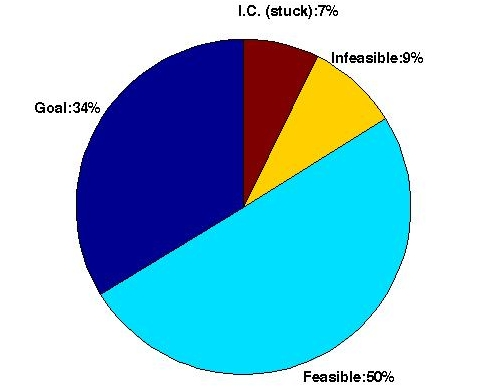
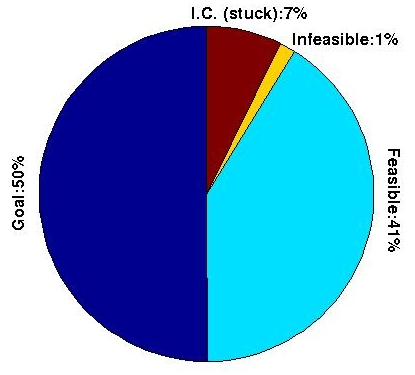
Last commit before submitting AR paper

Changed region(s): [[0.0578, 0.0, 0.9831, 0.9973], [0.0289, 0.4107, 0.0578, 0.616]]

diff --git a/ramp_planner/system_level/get_data.m b/ramp_planner/system_level/get_data.m
@@ -49,20 +49,23 @@ end
 
 % Initialize percentage arrays
 perc_fe = zeros(1,8, 'double');
+perc_infe = zeros(1,8, 'double');
 perc_re = zeros(1,8, 'double');
 perc_ic_st = zeros(1,8, 'double');
 
 % Get percentages
 for i=1:size(abtc,2)
-    s = sum(data_fe(:,i) == 1);
-    perc_fe(i) = s / 100.0;
-    
     s = sum(data_re(:,i) == 1);
-    perc_re(i) = s / 100.0;
+    perc_re(i) = s / size(data_re,1);
+    
+    s = sum(data_fe(:,i) == 1);
+    perc_fe(i) = (s / size(data_fe,1)) - perc_re(i);
     
     s = sum(data_ic_st(:,i) == 1);
-    perc_ic_st(i) = s / 100.0;
+    perc_ic_st(i) = s / size(data_ic_st,1);
     
+    all = perc_fe(i)+perc_re(i)+perc_ic_st(i);
+    perc_infe(i) = 1 - all;
 end
 
 % Time-left is a little different...
@@ -87,11 +90,12 @@ end
 
 
 % Get percentages
-s = sum(data_all_fe(:) == 1);
-perc_all_fe = s / size(data_all_fe,1);
 
 s = sum(data_all_re(:) == 1);
 perc_all_re = s / size(data_all_re,1);
+
+s = sum(data_all_fe(:) == 1);
+perc_all_fe = (s / size(data_all_fe,1)) - perc_all_re;
 
 s = sum(data_all_ic_st(:) == 1);
 perc_all_ic_st = s / size(data_all_ic_st,1);
@@ -101,7 +105,8 @@ tl_hist = hist(data_all_tl, nbins);
 bar(tl_hist);
 xlabel('Seconds left in trajectory');
 
-perc_all = [perc_all_fe-perc_all_re-perc_all_ic_st perc_all_re 1-perc_all_fe perc_all_ic_st];
+
+perc_all = [perc_all_re perc_all_fe 1-(perc_all_re+perc_all_fe+perc_all_ic_st) perc_all_ic_st];
 perc_values = {sprintf('%.0f%%', 100*perc_all(1)); sprintf('%.0f%%', 100*perc_all(2)); sprintf('%.0f%%', 100*perc_all(3)); sprintf('%.0f%%', 100*perc_all(4))};
 
 strs = {strcat('Goal: ', perc_values{1}) ; strcat('Feasible: ', perc_values{2}) ; strcat('Infeasible: ', perc_values{3}); strcat('I.C. (stuck): ', perc_values{4})};
@@ -110,42 +115,3 @@ p = pie(perc_all, strs);
 set(p(2:2:8),'FontSize',12);
 set(gcf, 'Position', [10 10 500 500]);
 
-
-
-% Old scripts
-% tl = importdata(strcat('1/', f_tl));
-% tl = [tl; importdata(strcat('2/', f_tl))];
-% tl = [tl; importdata(strcat('3/', f_tl))];
-% tl = [tl; importdata(strcat('4/', f_tl))];
-% tl = [tl; importdata(strcat('5/', f_tl))];
-% tl = [tl; importdata(strcat('6/', f_tl))];
-% tl = [tl; importdata(strcat('7/', f_tl))];
-% tl = [tl; importdata(strcat('8/', f_tl))];
-% 
-% re = importdata(strcat('1/', f_re));
-% re = [re; importdata(strcat('2/', f_re))];
-% re = [re; importdata(strcat('3/', f_re))];
-% re = [re; importdata(strcat('4/', f_re))];
-% re = [re; importdata(strcat('5/', f_re))];
-% re = [re; importdata(strcat('6/', f_re))];
-% re = [re; importdata(strcat('7/', f_re))];
-% re = [re; importdata(strcat('8/', f_re))];
-% 
-% ic_st = importdata(strcat('1/', f_ic_st));
-% ic_st = [ic_st; importdata(strcat('2/', f_ic_st))];
-% ic_st = [ic_st; importdata(strcat('3/', f_ic_st))];
-% ic_st = [ic_st; importdata(strcat('4/', f_ic_st))];
-% ic_st = [ic_st; importdata(strcat('5/', f_ic_st))];
-% ic_st = [ic_st; importdata(strcat('6/', f_ic_st))];
-% ic_st = [ic_st; importdata(strcat('7/', f_ic_st))];
-% ic_st = [ic_st; importdata(strcat('8/', f_ic_st))];
-% 
-% 
-% ic_oc = importdata(strcat('1/', f_ic_oc));
-% ic_oc = [ic_oc; importdata(strcat('2/', f_ic_oc))];
-% ic_oc = [ic_oc; importdata(strcat('3/', f_ic_oc))];
-% ic_oc = [ic_oc; importdata(strcat('4/', f_ic_oc))];
-% ic_oc = [ic_oc; importdata(strcat('5/', f_ic_oc))];
-% ic_oc = [ic_oc; importdata(strcat('6/', f_ic_oc))];
-% ic_oc = [ic_oc; importdata(strcat('7/', f_ic_oc))];
-% ic_oc = [ic_oc; importdata(strcat('8/', f_ic_oc))];
